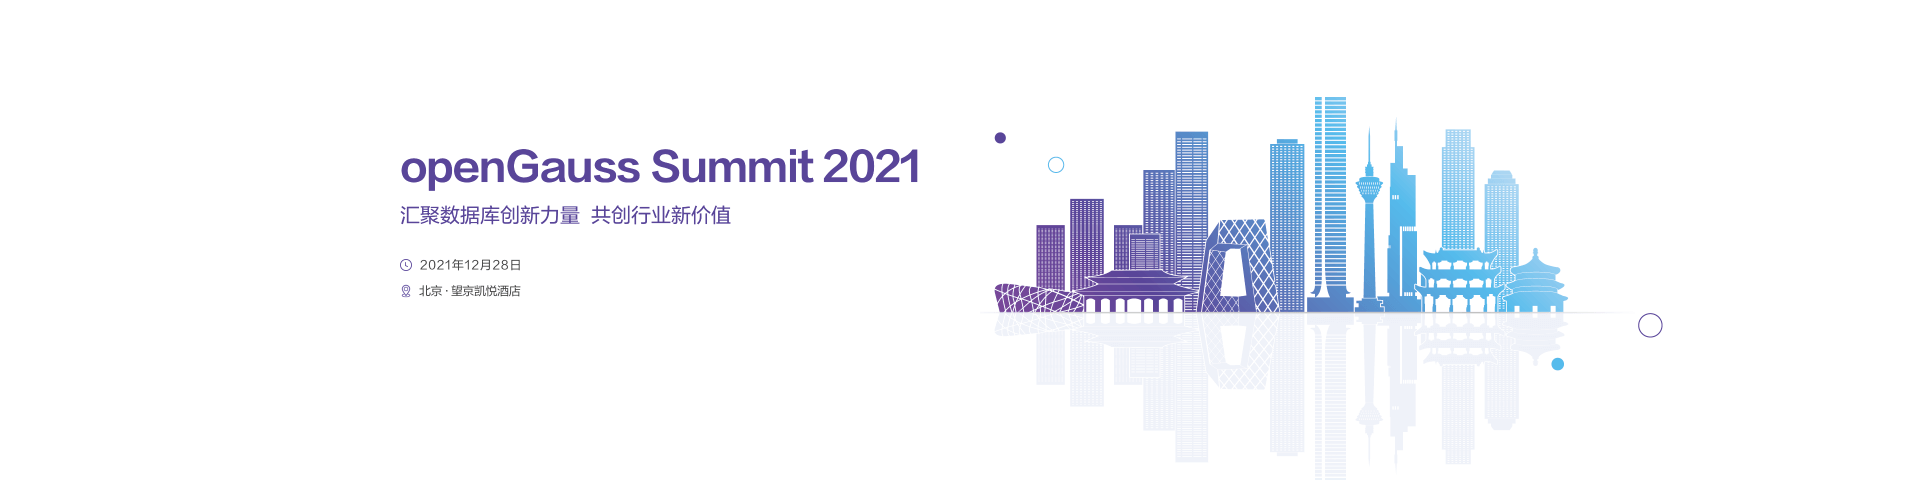
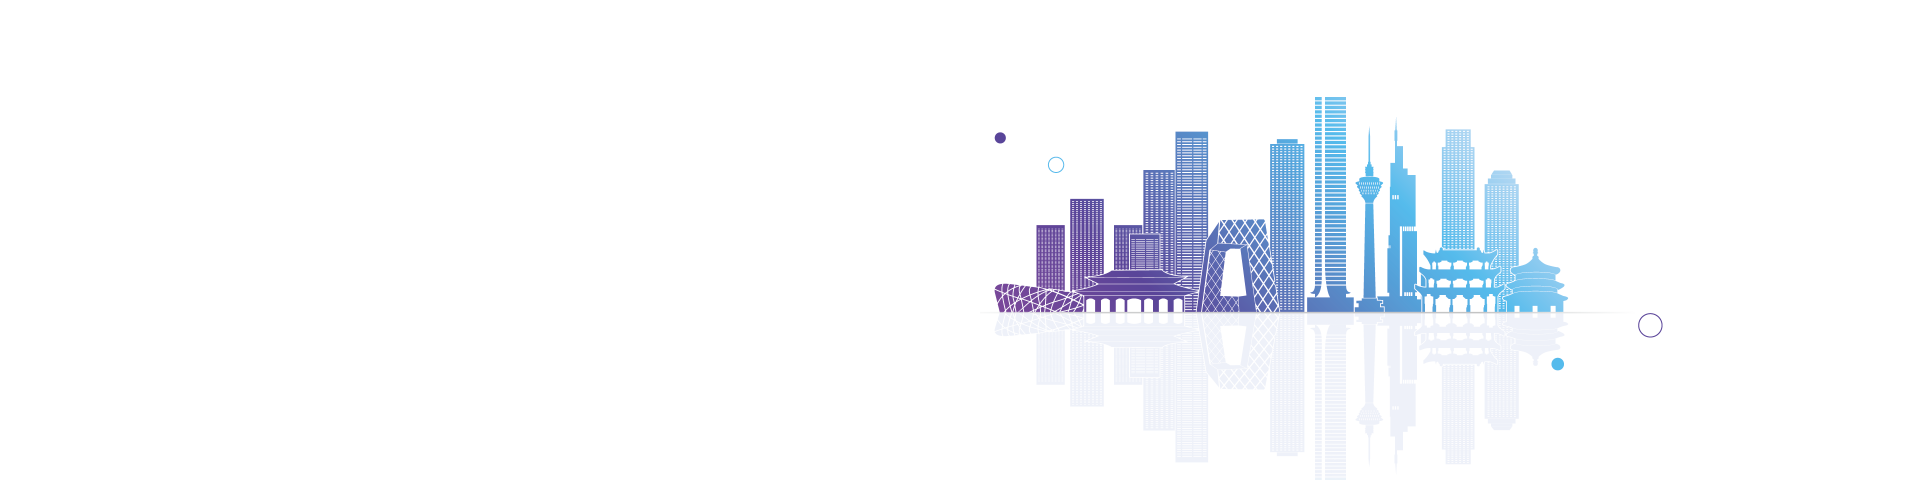
summit modify

Changed region(s): [[0.1875, 0.3125, 0.5, 0.4688], [0.2188, 0.5938, 0.2812, 0.625], [0.2188, 0.5312, 0.2812, 0.5625]]

diff --git a/themes/project/static/css/summit.css b/themes/project/static/css/summit.css
@@ -1,8 +1,7 @@
+ 
 .summitPoster{
     height: 480px;
-    background-size: cover;
-    background-repeat: no-repeat; 
-    background-position: 50%;
+    background: no-repeat 50%/cover; 
     margin-bottom: 60px; 
 } 
 .summitPoster .poster {
@@ -10,6 +9,45 @@
     width: 1120px;
     margin: 0 auto;
     height: 100%; 
+}
+.summitPoster .info{
+    padding-top: 140px; 
+}
+.summitPoster h2{
+    font-size: 38px; 
+    font-weight: bold;
+    color: #594599;
+    line-height: 48px;
+    font-family: Helvetica Neue,Helvetica,Arial,PingFang SC,Hiragino Sans GB,STHeiti,Microsoft YaHei,Microsoft JhengHei,SimSun,sans-serif;
+}
+.summitPoster h3{
+    font-size: 20px; 
+    font-weight: normal;
+    color: #594599;
+    line-height: 24px;
+    margin: 16px 0 24px;
+    font-family: Helvetica Neue,Helvetica,Arial,PingFang SC,Hiragino Sans GB,STHeiti,Microsoft YaHei,Microsoft JhengHei,SimSun,sans-serif;
+}
+.summitPoster .txt{
+    font-size: 15px;  
+    color: #000000;
+    line-height: 20px;
+    letter-spacing: 1px;
+    margin-bottom: 8px;
+}
+.summitPoster .txt::before{
+    width:20px ;
+    height: 20px;
+    display: inline-block;
+    content: '';
+    vertical-align: middle;
+    margin-right: 8px;
+}
+.summitPoster .time::before{
+    background: url("/img/summit/time1.png") no-repeat center/cover;
+}
+.summitPoster .address::before{
+    background: url("/img/summit/address.png") no-repeat center/cover;
 }
 .summitPoster .btns{
     width: 120px;
@@ -36,6 +74,7 @@
     line-height: 40px;
     text-indent: 2em;
     margin-bottom: 16px;
+    text-align: justify;
 }
 .summitMain h2{
     text-align: center;
@@ -151,13 +190,20 @@
         border: 1px solid #DFE1E8;
     }
     .summitPoster .btns{
-        left: 4%;
+        left: 20px;
+    }
+    .summitPoster .info{
+        padding-top: 80px;
+        padding-left: 20px;
     }
 } 
 @media screen and (max-width: 768px){ 
     .summitMain{
         width: 90% !important;
         padding: 0;
+    }
+    .summitPoster .info{
+        display: none;
     }
     .summitPoster{
         background-image: url("/img/summit/banner_mo.png") !important;

diff --git a/themes/project/layouts/summit/list.html b/themes/project/layouts/summit/list.html
@@ -24,14 +24,19 @@
             {{ else }}
             <div class="summitPoster" style="background-image: url({{ .Site.BaseURL}}{{ .Params.poster }}) ">
                 <div class="poster">
+                    <div class="info">
+                        <h2>{{ .Params.summittitle }} </h2>
+                        <h3>{{ .Params.slogan }} </h3>
+                        <p class='txt time'>{{ .Params.time }} </p>
+                        <p class='txt address'>{{ .Params.address }} </p> 
+                    </div>
                     <a target="_blank"  class="btns" href='{{ .Params.link }}'>{{ .Params.btn }}</a>
                 </div>
             </div>
             <div class="container summitMain">  
                 <p class="text">{{ .Params.infotext }} </p>
                 <p class="text">{{ .Params.infotext1 }} </p>
-                <h2 class="tit1">{{ .Params.tit1 }} </h2>
-
+                <h2 class="tit1">{{ .Params.tit1 }} </h2> 
                 {{ range .Params.module }}
                 <div class="summit-container"> 
                     <h3>{{ .daytime }}</h3> 

diff --git a/content/zh/summit/_index.md b/content/zh/summit/_index.md
@@ -4,6 +4,10 @@ poster = "img/summit/banner.png"
 moImg = "img/summit/banner_mo.png"
 description = "您可以在此处找到openGauss相关峰会。"
 keywords = ["openGauss","summit"]
+summittitle = "openGauss Summit 2021"
+slogan = "汇聚数据库创新力量 共创行业新价值"
+time = "2021年12月28日"
+address = "北京·望京凯悦酒店"
 
 link ="https://e-campaign.huawei.com/m/IBJFRb"
 btn ="立即报名"
